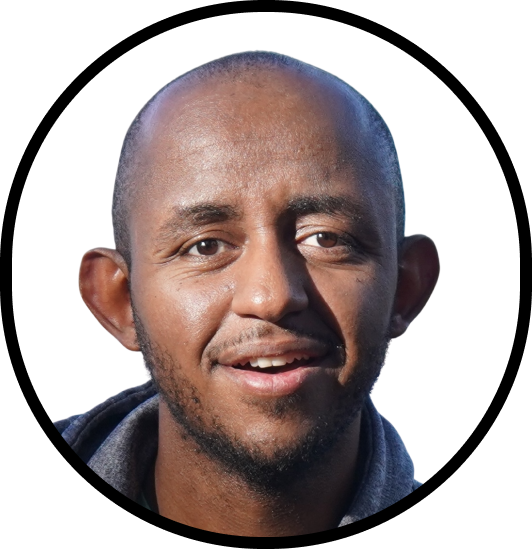
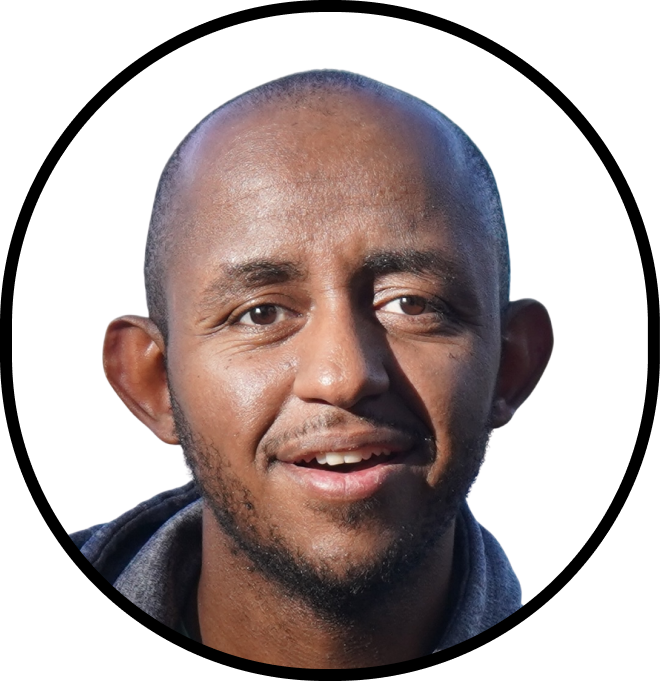
upgraded the img and added a highlight to navbar links

diff --git a/src/components/Layout.tsx b/src/components/Layout.tsx
@@ -1,36 +1,5 @@
-// // components/Layout.tsx
-// import React from "react";
-// import Link from "next/link";
-// import { Inter } from "next/font/google";
-
-// type LayoutProps = {
-//   children: React.ReactNode;
-// };
-
-// const inter = Inter({ subsets: ['latin'] });
-
-// const Layout: React.FC<LayoutProps> = ({ children }) => {
-//   return (
-//     <div className="w-screen">
-//         <header className={inter.className}>
-//         <nav className="flex justify-between items-center md:mr-12 text-2xl font-bold mt-4">
-//         <div className="ml-3">JL</div>
-//         <div className="space-x-10">
-//             <Link className="text-black" href="/">Home</Link>
-//             <Link className="text-black" href="/about">About</Link>
-//             <Link className="text-black" href="/projects">Projects</Link>
-//             <Link className="text-black" href="/blog">Blog</Link>
-//         </div>
-//         </nav>
-//     </header>
-//     <main className="md:p-10 w-screen">{children}</main>
-//     </div>
-//   );
-// };
-
-// export default Layout;
-
 import React, { useState } from "react";
+import {useRouter} from 'next/router';
 import Link from "next/link";
 import { Inter } from "next/font/google";
 
@@ -46,6 +15,8 @@ const Layout: React.FC<LayoutProps> = ({ children }) => {
   const toggleSidebar = () => {
     setIsSidebarOpen(!isSidebarOpen);
   };
+
+  const router = useRouter();
 
   return (
     <div className="w-screen">
@@ -82,16 +53,16 @@ const Layout: React.FC<LayoutProps> = ({ children }) => {
 
           {/* Desktop Links */}
           <div className="hidden md:flex space-x-10">
-            <Link className="text-black" href="/">
+            <Link className={`${router.pathname == '/' ? 'text-purple-700' : 'text-black'}`} href="/">
               Home
             </Link>
-            <Link className="text-black" href="/about">
+            <Link className={`${router.pathname == '/about' ? 'text-purple-700' : 'text-black'}`} href="/about">
               About
             </Link>
-            <Link className="text-black" href="/projects">
+            <Link className={`${router.pathname == '/projects' ? 'text-purple-700' : 'text-black'}`} href="/projects">
               Projects
             </Link>
-            <Link className="text-black" href="/blog">
+            <Link className={`${router.pathname == '/blog' ? 'text-purple-700' : 'text-black'}`} href="/blog">
               Blog
             </Link>
           </div>

diff --git a/src/components/HeroPage.tsx b/src/components/HeroPage.tsx
@@ -1,6 +1,5 @@
 import Link from "next/link";
 import { Inter } from 'next/font/google'
-import Image from 'next/image'
 
 const inter = Inter({ subsets: ['latin'] });
 export default function HeroPage() {
@@ -19,7 +18,7 @@ export default function HeroPage() {
         </div>
 
         <div className="place-content-center">
-            <Image src='/Frame2.png' alt='Image of me, Joshua Lonsako' width={400} height={400} />
+            <img src='/Frame2.png' alt='Image of me, Joshua Lonsako' width={400} height={400} />
         </div>
     </div>
   );
